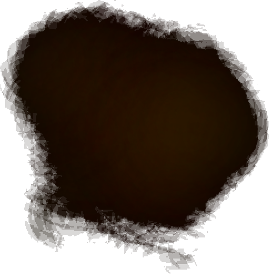
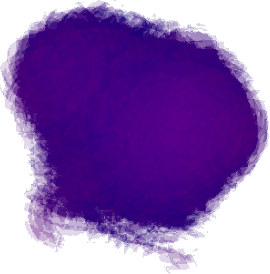
better nebula art, fixed nullzone I think, rebalanced level 1-4

diff --git a/core/src/com/quokkabounce/game/states/PlayState.java b/core/src/com/quokkabounce/game/states/PlayState.java
@@ -711,11 +711,11 @@ class PlayState extends State implements InputProcessor{
                         boolean shouldBounce = true;
                         for (Obstacle nullZone : nullZones) {
                             if(!justTouchUp) {
-                                if (nullZone.getObstacleBounds().contains(intersectionPoint(quokka.getUpperRight(), quokka.getUpperRight2(), clickPos2d, clickPos2d2))) {
+                                if (nullZone.getObstacleBounds().contains(intersectionPoint(quokka.getBottomLeft(), quokka.getBottomLeft2(), clickPos2d, clickPos2d2))) {
                                     shouldBounce = false;
                                 }
                             }
-                            else if(nullZone.getObstacleBounds().contains(intersectionPoint(quokka.getUpperRight(), quokka.getUpperRight2(), clickPosNo, clickPosNo2))){
+                            else if(nullZone.getObstacleBounds().contains(intersectionPoint(quokka.getBottomLeft(), quokka.getBottomLeft2(), clickPosNo, clickPosNo2))){
                                 shouldBounce = false;
                             }
                         }
@@ -732,11 +732,11 @@ class PlayState extends State implements InputProcessor{
                         boolean shouldBounce = true;
                         for (Obstacle nullZone : nullZones) {
                             if(!justTouchUp) {
-                                if (nullZone.getObstacleBounds().contains(intersectionPoint(quokka.getUpperRight(), quokka.getUpperRight2(), clickPos2d, clickPos2d2))) {
+                                if (nullZone.getObstacleBounds().contains(intersectionPoint(quokka.getBottomRight(), quokka.getBottomRight2(), clickPos2d, clickPos2d2))) {
                                     shouldBounce = false;
                                 }
                             }
-                            else if(nullZone.getObstacleBounds().contains(intersectionPoint(quokka.getUpperRight(), quokka.getUpperRight2(), clickPosNo, clickPosNo2))){
+                            else if(nullZone.getObstacleBounds().contains(intersectionPoint(quokka.getBottomRight(), quokka.getBottomRight2(), clickPosNo, clickPosNo2))){
                                 shouldBounce = false;
                             }
                         }
@@ -753,11 +753,11 @@ class PlayState extends State implements InputProcessor{
                         boolean shouldBounce = true;
                         for (Obstacle nullZone : nullZones) {
                             if(!justTouchUp) {
-                                if (nullZone.getObstacleBounds().contains(intersectionPoint(quokka.getUpperRight(), quokka.getUpperRight2(), clickPos2d, clickPos2d2))) {
+                                if (nullZone.getObstacleBounds().contains(intersectionPoint(quokka.getUpperLeft(), quokka.getUpperLeft2(), clickPos2d, clickPos2d2))) {
                                     shouldBounce = false;
                                 }
                             }
-                            else if(nullZone.getObstacleBounds().contains(intersectionPoint(quokka.getUpperRight(), quokka.getUpperRight2(), clickPosNo, clickPosNo2))){
+                            else if(nullZone.getObstacleBounds().contains(intersectionPoint(quokka.getUpperLeft(), quokka.getUpperLeft2(), clickPosNo, clickPosNo2))){
                                 shouldBounce = false;
                             }
                         }
@@ -2521,8 +2521,8 @@ class PlayState extends State implements InputProcessor{
                         walls.add(new Wall(350, -80, "wall.png"));
                         walls.add(new Wall(850, -230, "wall.png"));
                         clouds.add(new EvilCloud(1200, 460));
-                        bonusQuokkas.add(new BonusQuokka(1200, 10));
-                        happyCloud = new HappyCloud(500, 50);
+                        bonusQuokkas.add(new BonusQuokka(650, 50));
+                        happyCloud = new HappyCloud(1200, 10);
                         break;
                     case 5:
                         levelBackground = new Texture("level1Background.png");
